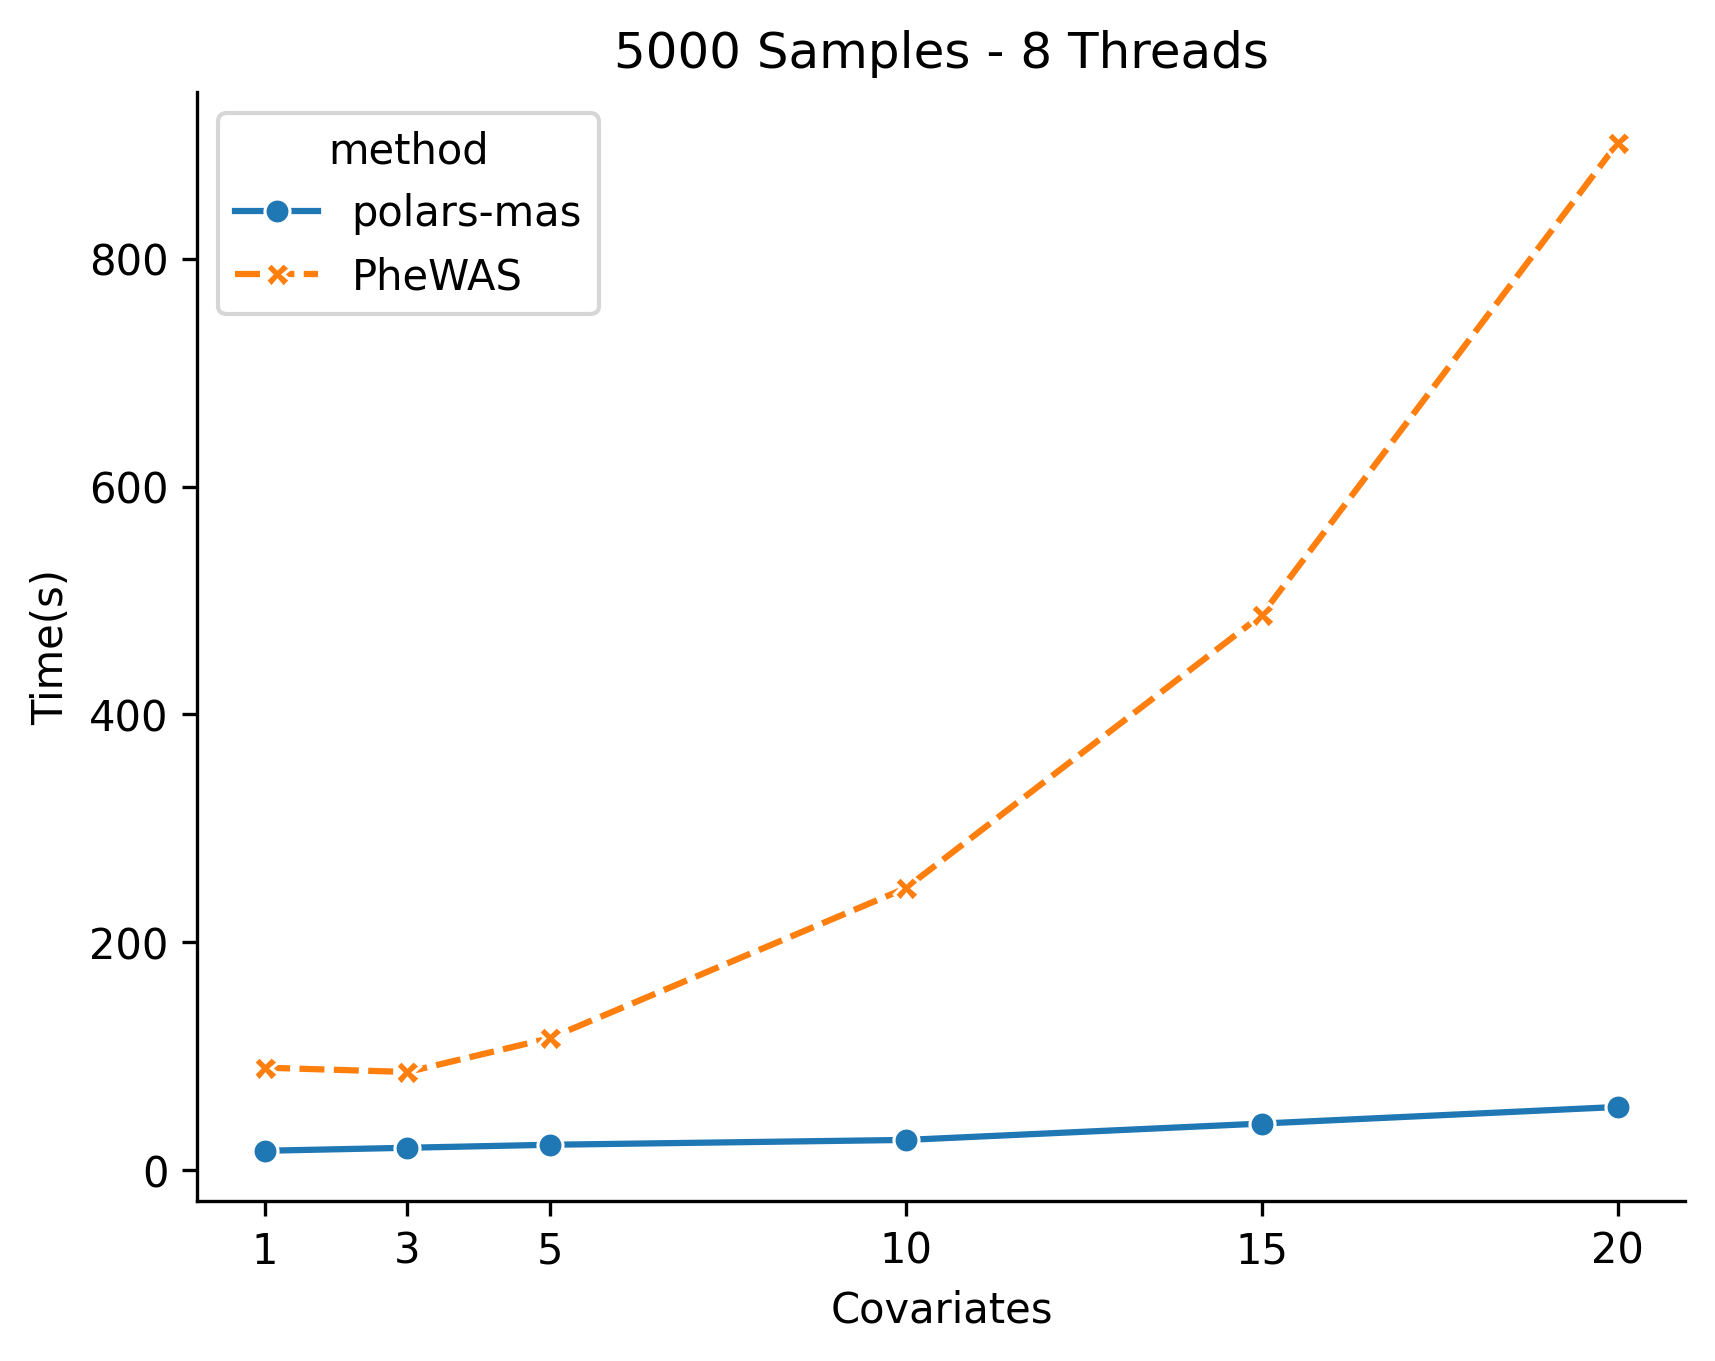
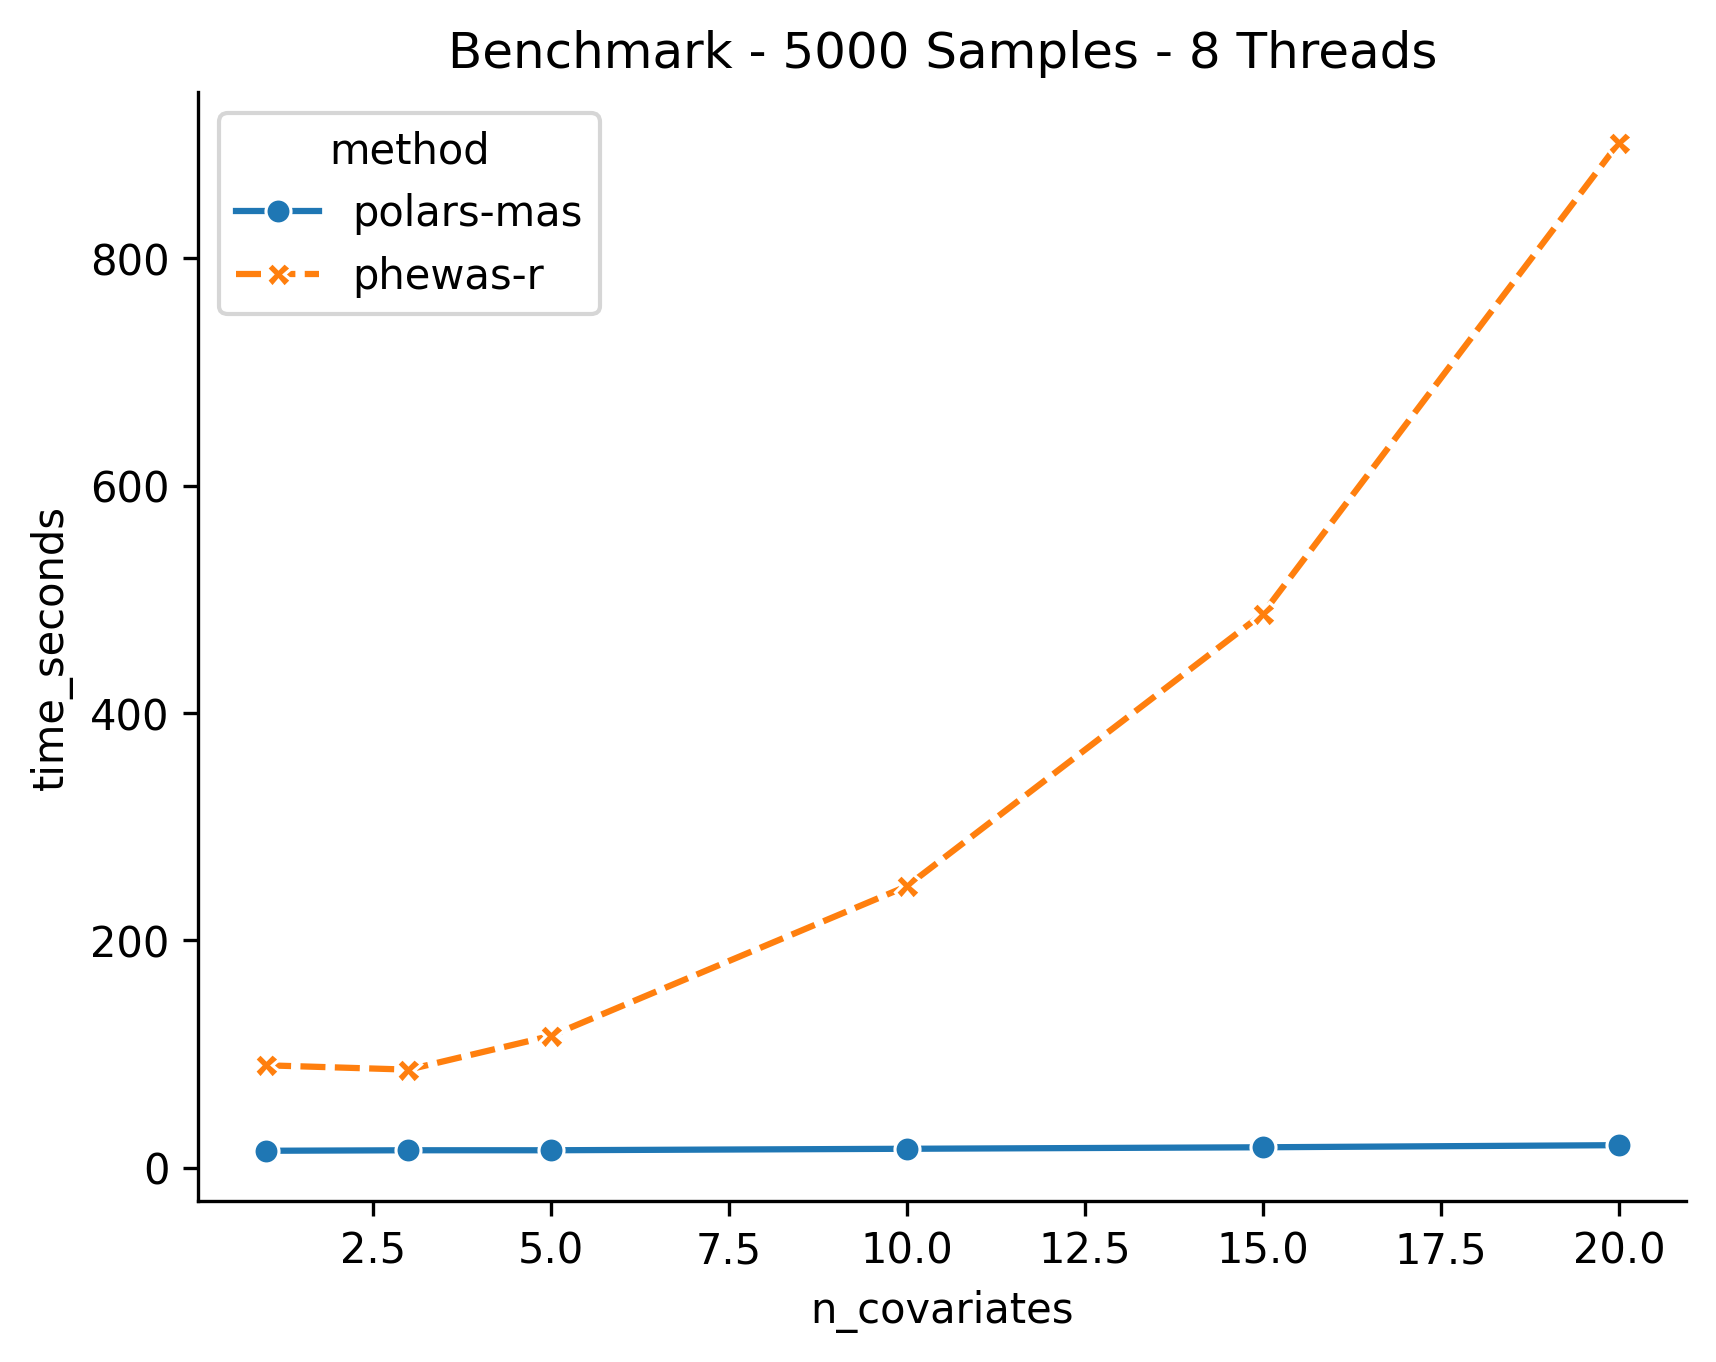
updated with IPC benchmarks

diff --git a/benchmarks/benchmark_memory_scaling_python.py b/benchmarks/benchmark_memory_scaling_python.py
@@ -19,7 +19,7 @@ DATA_FILE = Path(__file__).parent / "phewas_example_1e+05_samples_50_covariates.
 
 # Common parameters
 PREDICTOR = "rsEXAMPLE"
-NUM_WORKERS = 8
+NUM_WORKERS = 1
 MODEL = "firth"
 N_SAMPLES = 5000
 
@@ -74,7 +74,7 @@ def run_benchmark(subset_file: Path, covariates: list[str], n_covariates: int, o
         "-d", "i:52-",  # All columns from index 52 onwards are phecodes (0-indexed)
         "-c", covariates_str,
         "-m", MODEL,
-        "-n", "1",  # Index of first outcome column (1-indexed for display)
+        "-n", "8",  # Index of first outcome column (1-indexed for display)
         "-t", str(NUM_WORKERS),
         "--phewas",
         "-q",  # Quiet mode
@@ -174,7 +174,7 @@ def main():
         print(f"{r['n_covariates']:>12} {r['time_seconds']:>12.2f} {r['max_rss_mb']:>14.1f}")
 
     # Save results to CSV
-    output_file = output_dir / "benchmark_memory_scaling_python_results.csv"
+    output_file = output_dir / "IPC_benchmark_memory_covariate_scaling_python_results.csv"
     with open(output_file, "w") as f:
         f.write("n_covariates,time_seconds,max_rss_kb,max_rss_mb,covariates\n")
         for r in results:
